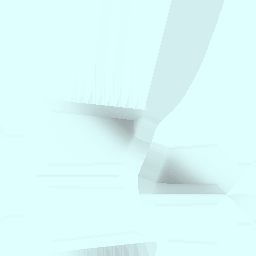
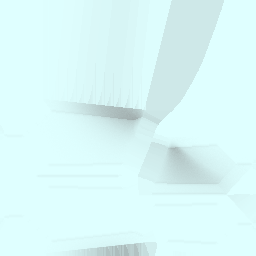
Stalactite bug waarschijnlijk gefixt

Changed region(s): [[0.5938, 0.5625, 0.8438, 0.7812], [0.4062, 0.4062, 0.5625, 0.5625], [0.4688, 0.9375, 0.5625, 1.0]]

diff --git a/Bruin Hol/Assets/Scripts/stalactiteTrigger.cs b/Bruin Hol/Assets/Scripts/stalactiteTrigger.cs
@@ -14,6 +14,7 @@ public class stalactiteTrigger : MonoBehaviour
             stalactite.isKinematic = false;
             stalactite.useGravity = true;
             animator.SetBool("Waiting", false);
+            animator.enabled = false;
         }
     }
 }
